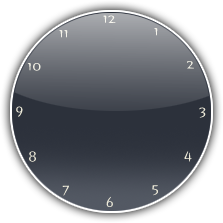
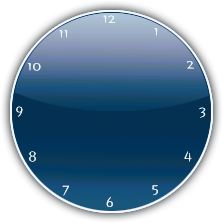
Enhance the look.

diff --git a/winClock/MainWindow.xaml b/winClock/MainWindow.xaml
@@ -14,26 +14,26 @@
         <Grid Width="300" Height="300" MouseLeftButtonDown="Grid_MouseDown">
             <Image Source="images/backGround.png"></Image>
 
-            <Label Name="labelInfo" Foreground="LightGray" 
+            <Label Name="labelInfo" Foreground="White" 
         Margin="0, 0, 0, 200" HorizontalAlignment="Center" 
         VerticalAlignment="Bottom" Height="Auto" 
         Width="Auto" FontFamily="Times New Roman" >winClock By Thomas
             </Label>
 
-            <Label Name="labelDate" Foreground="LightGray" 
+            <Label Name="labelDate" Foreground="White" 
         Margin="0, 0, 0, 75" HorizontalAlignment="Center" 
         VerticalAlignment="Bottom" Height="Auto" 
         Width="Auto" FontFamily="Times New Roman" >Date
             </Label>
             
-            <Label Name="labelTime" Foreground="LightGray" 
+            <Label Name="labelTime" Foreground="White" 
         Margin="0, 0, 0, 52" HorizontalAlignment="Center" 
         VerticalAlignment="Bottom" Height="Auto"
          Width="Auto">Time
             </Label>
             
             <!--SECOND-->
-            <Rectangle Margin="150,0,149,150" Name="rectangleSecond" Stroke="AliceBlue" Height="120" VerticalAlignment="Bottom">
+            <Rectangle Margin="150,0,149,150" Name="rectangleSecond" Stroke="White" Height="120" VerticalAlignment="Bottom">
                 <Rectangle.RenderTransform>
                     <RotateTransform x:Name="secondHand" CenterX="0" CenterY="120" Angle="0" />
                 </Rectangle.RenderTransform>
@@ -47,14 +47,19 @@
             </Rectangle>
 
             <!--HOUR-->
-            <Rectangle Margin="150,80,149,149" Name="rectangleHour" Stroke="SkyBlue">
+            <Rectangle Margin="150,80,149,149" Name="rectangleHour" Stroke="Cyan">
                 <Rectangle.RenderTransform>
                     <RotateTransform x:Name="hourHand" CenterX="0" CenterY="70" Angle="0" />
                 </Rectangle.RenderTransform>
             </Rectangle>
             
-            <Ellipse Width="10" Height="10" Fill="LightGray" Canvas.Left="150" Canvas.Top="150"/>
-            
+            <Ellipse Width="10" Height="10" Fill="White" Canvas.Left="150" Canvas.Top="150"/>
+            <Ellipse Width="7" Height="7" Fill="Black" Canvas.Left="150" Canvas.Top="150"/>
+            <Ellipse Width="264" Height="264" Stroke="Gold" Canvas.Left="150" Canvas.Top="150"/>
+            <Ellipse Width="268" Height="268" Stroke="Gold" Canvas.Left="150" Canvas.Top="150"/>
+            <Ellipse Width="270" Height="270" Stroke="Gold" Canvas.Left="150" Canvas.Top="150"/>
+            <Ellipse Width="274" Height="274" Stroke="Gold" Canvas.Left="150" Canvas.Top="150"/>
+
         </Grid>
     </Viewbox>
 
